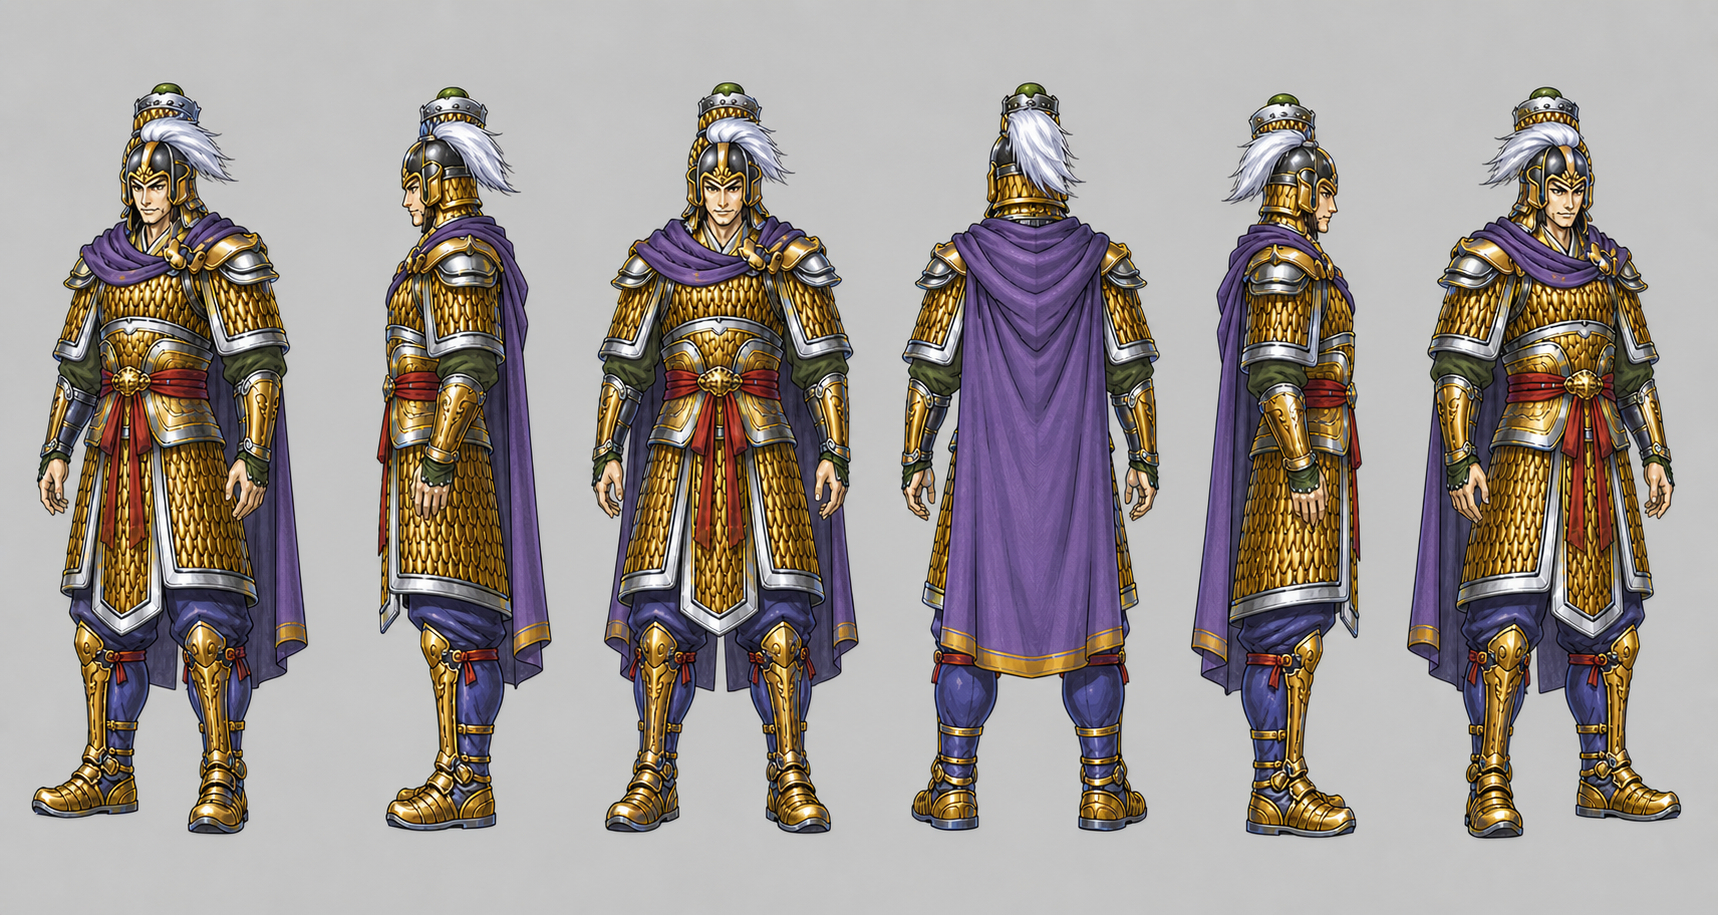
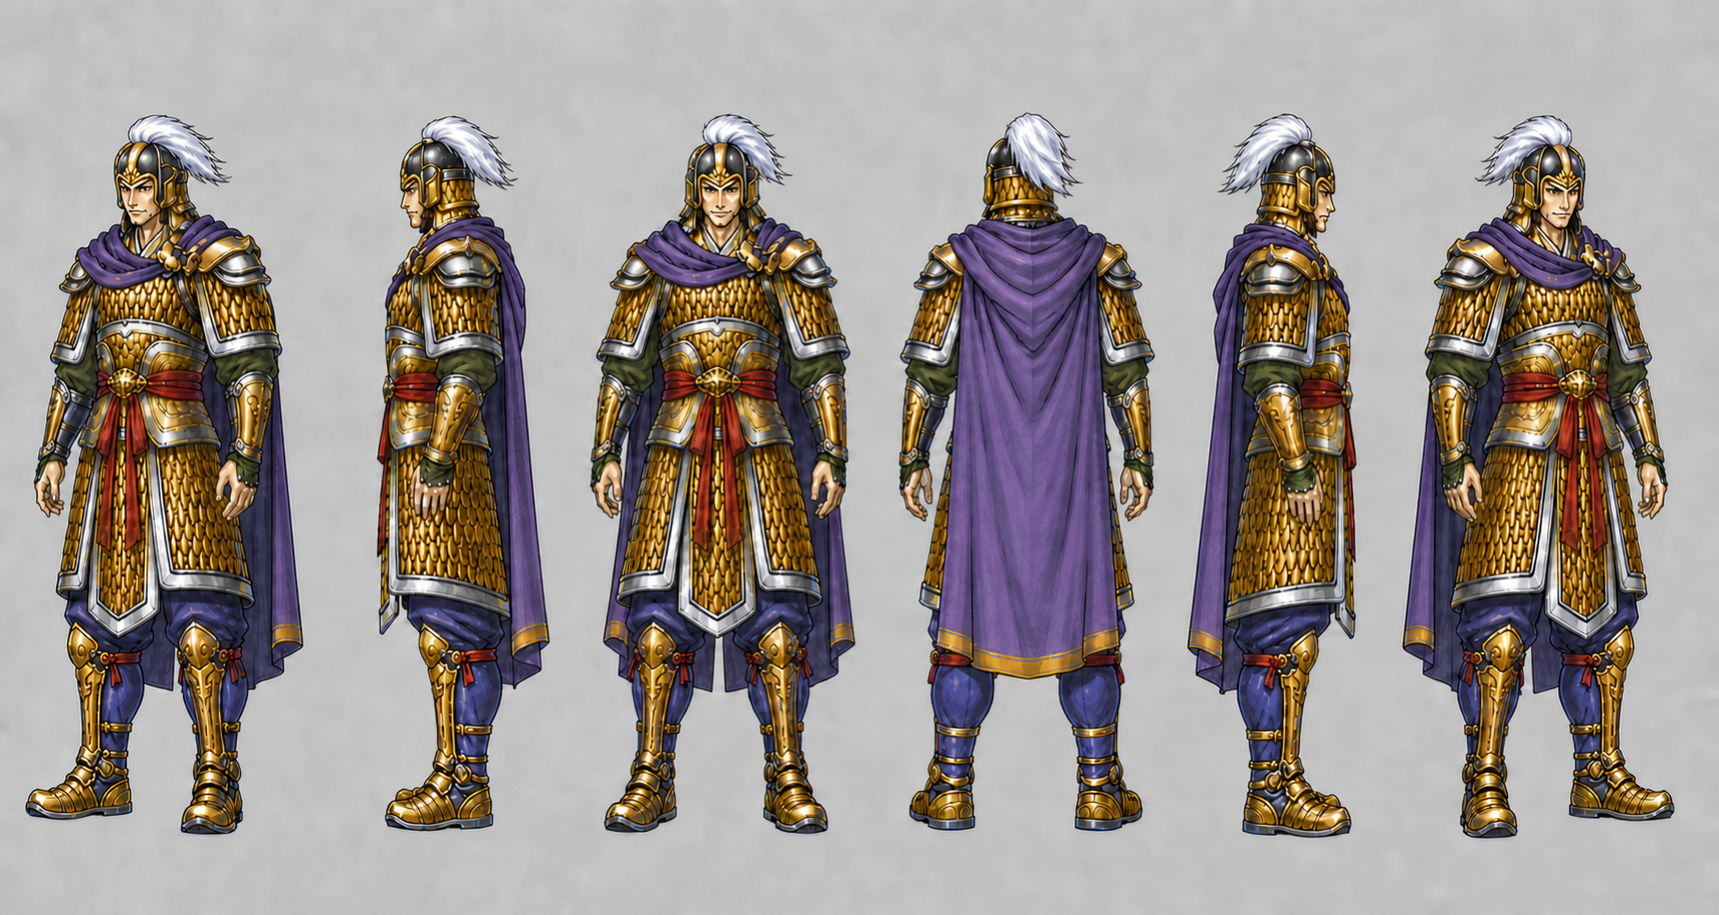
fix(character-model-sheets): 修正 017 面部特征与 018 头盔结构
补回青面兽杨志左脸胎记并锁定跨视角锚点。\n\n移除 018 误识别的头盔附件，统一六视图结构并保留返修记录与版本备份。

diff --git a/character-model-sheets/characters/018/review-notes.md b/character-model-sheets/characters/018/review-notes.md
@@ -21,3 +21,21 @@
 
 - 背面、远侧、内部与遮挡结构继续按 `inferred` 或 `unknown` 处理，不宣称为原作事实。
 - 旧版资产已保留为递增版本文件；当前主文件将用于新版交付。
+
+## 2026-08-21 头盔结构返修
+
+- 用户确认原画头盔上方被误读的圆筒状轮廓实际属于角色自身右胳膊，不是头盔附件。
+- 返修范围：人物六视图中六顶头盔上方的银金绿色圆筒／冠筒结构。
+- 保持不变：人物身份、脸型、盔体、白色盔缨、服装、配色、甲片、姿态、六视图排列、尺度、间距与背景。
+- [x] 六个视角中的错误圆筒／冠筒均已移除，头盔恢复为正常盔顶与白色盔缨连接。
+- [x] 未新增头顶右臂轮廓、多余肢体、附件、文字或场景元素；中立姿态中的右臂仍保持自然下垂。
+- 版本：返修前主图已保存为 `character-turnaround-v2.png`；返修结果写入 `character-turnaround.png`。
+
+## 2026-08-21 头盔跨视角一致性二次返修
+
+- 用户批准第二列纯左视图头盔，将其锁定为同一头盔的三维结构基准。
+- 返修范围：仅第 1、3、4、5、6 列头盔盔体、盔顶与白色盔缨根部附近的残余杂物。
+- 第二列整个人物保持不变；其他五列的脸、身体、服装、姿态、视角、间距和背景保持不变。
+- [x] 第 1、3、4、5、6 列已按第二列头盔基准完成清理，盔顶、盔缨根部和各视角连接关系保持一致。
+- [x] 原画可确认的额前金色护片、耳护、后颈金色甲片和单束白色盔缨均保留；未残留圆筒、笼状冠件、绿色顶盖、悬浮碎片或重复连接件。
+- 版本：二次返修前主图已保存为 `character-turnaround-v3.png`；二次返修结果写入 `character-turnaround.png`。

diff --git a/character-model-sheets/characters/017/review-notes.md b/character-model-sheets/characters/017/review-notes.md
@@ -21,3 +21,11 @@
 
 - 背面、远侧、内部与遮挡结构继续按 `inferred` 或 `unknown` 处理，不宣称为原作事实。
 - 旧版资产已保留为递增版本文件；当前主文件将用于新版交付。
+
+## 2026-08-21 左脸胎记返修
+
+- [x] 角色自身左额、左眼周与左颊的大块青蓝色胎记已按原画补回。
+- [x] 左面与正面清楚可见；右面按远侧关系遮挡；所有视图未换边、镜像或复制。
+- [x] 胎记呈平贴皮肤的不规则先天色块，不是面具、战纹、伤疤或发光效果。
+- [x] 除脸部外，服装、体型、姿态、六列视角、构图与背景保持不变。
+- 返修前主图已保存为 `character-turnaround-v2.png`；返修结果写入 `character-turnaround.png`，角色状态保持 `generated`，等待用户批准。
